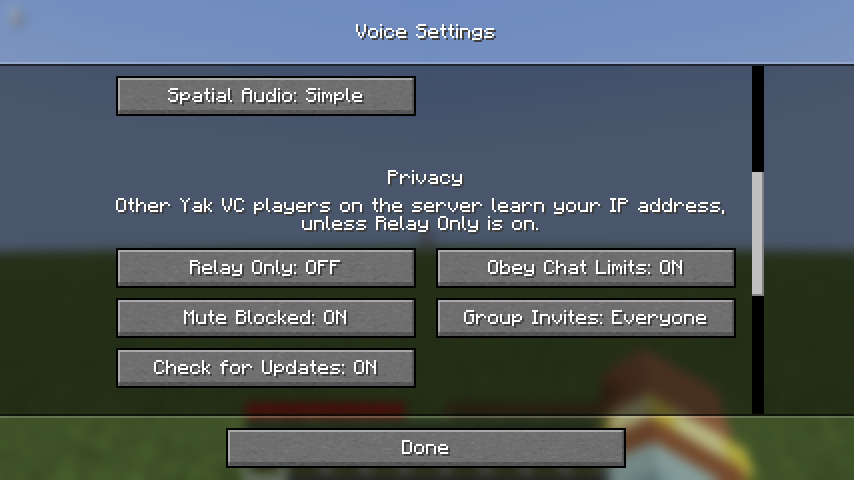
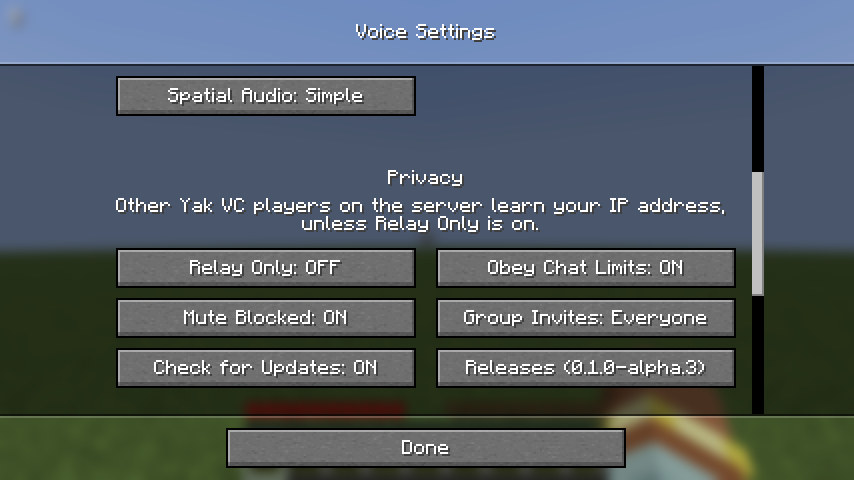
Link the releases page from the voice settings
A Releases button next to Check for Updates names the running version
and opens the releases page, or says Update to the newer version the
update check found and opens that release.

Part of #207

Changed region(s): [[0.4871, 0.7188, 0.8829, 0.8125]]

diff --git a/mod/src/main/java/io/github/desocketed/yakvc/ui/VoiceSettingsScreen.java b/mod/src/main/java/io/github/desocketed/yakvc/ui/VoiceSettingsScreen.java
@@ -2,11 +2,13 @@ package io.github.desocketed.yakvc.ui;
 
 import com.mojang.serialization.Codec;
 import io.github.desocketed.yakvc.GameStateFeeder;
+import io.github.desocketed.yakvc.UpdateCheck;
 import io.github.desocketed.yakvc.YakVcClient;
 import io.github.desocketed.yakvc.config.ClientConfig;
 import io.github.desocketed.yakvc.config.SpatialAudio;
 import io.github.desocketed.yakvc.natives.EngineEvent;
 import java.io.IOException;
+import java.net.URI;
 import java.util.ArrayList;
 import java.util.LinkedHashMap;
 import java.util.List;
@@ -19,6 +21,8 @@ import net.minecraft.client.Options;
 import net.minecraft.client.gui.GuiGraphicsExtractor;
 import net.minecraft.client.gui.components.Button;
 import net.minecraft.client.gui.components.MultiLineTextWidget;
+import net.minecraft.client.gui.components.Tooltip;
+import net.minecraft.client.gui.screens.ConfirmLinkScreen;
 import net.minecraft.client.input.KeyEvent;
 import net.minecraft.client.input.MouseButtonEvent;
 import net.minecraft.client.gui.screens.AlertScreen;
@@ -274,13 +278,27 @@ public final class VoiceSettingsScreen extends OptionsSubScreen {
 				.setMaxWidth(310).setCentered(true));
 		list.addSmall(relayOnly, respectChatRestrictions);
 		list.addSmall(muteBlockedPlayers, invites);
-		list.addSmall(checkForUpdates);
+		list.addSmall(checkForUpdates.createButton(options), releasesButton());
 		list.addHeader(Component.translatable("yakvc.settings.account"));
 		shownAccountState = accountState();
 		accountText = new MultiLineTextWidget(shownAccountState, font).setMaxWidth(310).setCentered(true);
 		list.addBig(accountText);
 		list.addSmall(verifiedOnly);
 		addDeveloperSection();
+	}
+
+	/**
+	 * Opens the releases page (after the game's usual link warning), naming the running version, or the newer one if
+	 * the update check found it.
+	 */
+	private Button releasesButton() {
+		String running = YakVcClient.version();
+		UpdateCheck.Release newer = UpdateNotice.newer();
+		Component label = newer == null ? Component.translatable("yakvc.settings.releases", running)
+				: Component.translatable("yakvc.settings.releases.update", newer.version());
+		URI page = newer == null ? UpdateCheck.RELEASES_PAGE : newer.page();
+		return Button.builder(label, button -> ConfirmLinkScreen.confirmLinkNow(this, page))
+				.tooltip(Tooltip.create(Component.translatable("yakvc.settings.releases.tooltip", running))).build();
 	}
 
 	/**

diff --git a/mod/src/main/java/io/github/desocketed/yakvc/YakVcClient.java b/mod/src/main/java/io/github/desocketed/yakvc/YakVcClient.java
@@ -143,11 +143,16 @@ public final class YakVcClient implements ClientModInitializer {
 		} catch (Exception e) {
 			return; // The engine start below reports the broken config.
 		}
-		String running = loader.getModContainer("yakvc").orElseThrow().getMetadata().getVersion().getFriendlyString();
 		UpdateNotice.register();
-		UpdateCheck.start(running).thenAccept(release -> {
+		UpdateCheck.start(version()).thenAccept(release -> {
 			if (release != null) Minecraft.getInstance().execute(() -> UpdateNotice.show(release));
 		});
+	}
+
+	/** The running Yak VC's version, as in its mod metadata. */
+	public static String version() {
+		return FabricLoader.getInstance().getModContainer("yakvc").orElseThrow().getMetadata().getVersion()
+				.getFriendlyString();
 	}
 
 	/** Logs why voice is off for this game and tells the player once the title screen is up. */

diff --git a/mod/src/main/java/io/github/desocketed/yakvc/UpdateCheck.java b/mod/src/main/java/io/github/desocketed/yakvc/UpdateCheck.java
@@ -18,6 +18,8 @@ import org.jspecify.annotations.Nullable;
  * nothing about the player is sent, and any failure only means no notice.
  */
 public final class UpdateCheck {
+	/** Where players download Yak VC. */
+	public static final URI RELEASES_PAGE = URI.create("https://github.com/desocketed/yakvc/releases");
 	private static final URI RELEASES = URI.create("https://api.github.com/repos/desocketed/yakvc/releases?per_page=10");
 	private static final Duration TIMEOUT = Duration.ofSeconds(10);
 

diff --git a/docs/USER_GUIDE.md b/docs/USER_GUIDE.md
@@ -157,6 +157,7 @@ Open the settings from **Options → Music & Sounds → Voice Chat…**, at the 
 - **Mute Blocked**: players you block in Social Interactions can't hear you, and you don't hear them. On by default.
 - **Group Invites**: who may invite you to a [group](#groups): *Everyone* (the default) or *Nobody*. Setting `invites = "friends"` in the [config file](#the-config-file) allows only the players in `friends_only`, which is edited there too. Invites from anyone else are ignored.
 - **Check for Updates**: once at startup, asks GitHub whether a newer Yak VC is out, and if so names it in the title screen's top left corner; click it to open the release page. On by default; it takes effect after you restart the game.
+- **Releases**: opens Yak VC's [releases page](https://github.com/desocketed/yakvc/releases), and shows which version you run. When the update check found a newer one, it says **Update to** that version and opens its release.
 
 Under **Account** the settings say whether your Minecraft account is verified (see [Installing](#installing)).
 
